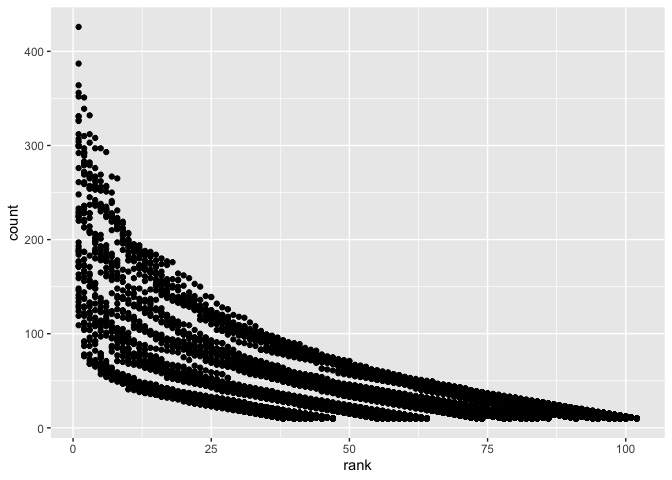
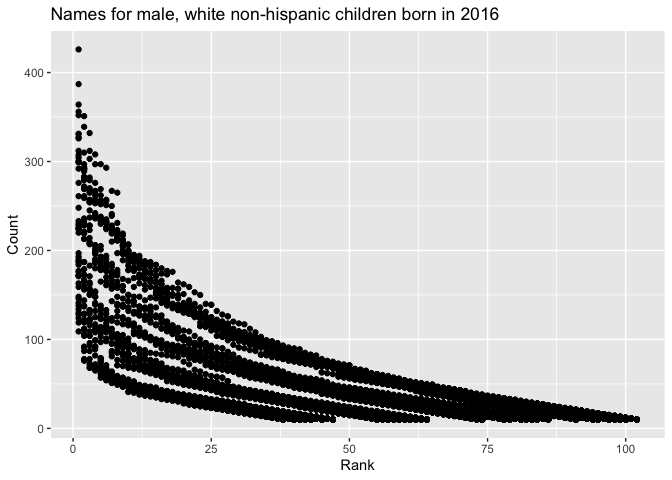
HW 2 second draft

diff --git a/p8105_hw2_qy2234.md b/p8105_hw2_qy2234.md
@@ -202,10 +202,12 @@ The names of key variables include year and month
 baby_name_data = read_csv(
   "./P3_data/Popular_Baby_Names.csv") %>%
   janitor::clean_names() %>% 
-  distinct() %>% 
   mutate(gender = str_to_lower(gender)) %>% 
   mutate(ethnicity = str_to_lower(ethnicity)) %>% 
-  mutate(childs_first_name = str_to_lower(childs_first_name))
+  mutate(childs_first_name = str_to_lower(childs_first_name)) %>% 
+  distinct() %>% 
+  mutate(ethnicity = recode(ethnicity, "asian and paci" = "asian and pacific islander")) %>%   mutate(ethnicity = recode(ethnicity, "black non hisp" = "black non hispanic")) %>%           mutate(ethnicity = recode(ethnicity, "white non hisp" = "white non hispanic")) %>% 
+  mutate(ethnicity = factor(ethnicity))
 ```
 
     ## Parsed with column specification:
@@ -218,27 +220,32 @@ baby_name_data = read_csv(
     ##   Rank = col_double()
     ## )
 
-Produce a well-structured, reader-friendly table showing the rank in
-popularity of the name “Olivia” as a female baby name over time; this
-should have rows for ethnicities and columns for year. Produce a similar
-table showing the most popular name among male children over time.
-
 ``` r
 ## produce a well-structured, reader-friendly table for girl's name
 baby_name_data_tidy_girl = 
+  baby_name_data %>% 
+  filter(childs_first_name == "olivia") %>% 
+  select(-gender, -count) %>% 
   pivot_wider(
-  baby_name_data, 
   names_from = "year_of_birth", 
-  values_from = "count")
+  values_from = "rank") 
+   
 
 ## produce a well-structured, reader-friendly table for boy's name
 baby_name_data_tidy_boy = 
+  baby_name_data %>% 
+  filter(gender == "male", rank == "1") %>% 
+  select(-gender, -count, -rank) %>% 
   pivot_wider(
-  baby_name_data, 
   names_from = "year_of_birth", 
-  values_from = "count") %>% 
-  arrange(desc(gender))
+  values_from = "childs_first_name")
 ```
+
+Produce a well-structured, reader-friendly table showing the rank in
+popularity of the name “Olivia” as a female baby name over time; this
+should have rows for ethnicities and columns for year. Produce a similar
+table showing the most popular name among male children over
+time.
 
 ``` r
 ## for male, white non-hispanic children born in 2016, produce a scatter plot
@@ -246,7 +253,11 @@ data_for_scatter_plot =
   filter(baby_name_data, year_of_birth == 2016, gender == "male", 
          ethnicity == "white non hispanic")
 ggplot(baby_name_data, aes(x = rank, y = count)) + 
-  geom_point()
+  geom_point() + 
+  labs(
+    title = "Names for male, white non-hispanic children born in 2016",
+    x = "Rank",
+    y = "Count")
 ```
 
 ![](p8105_hw2_qy2234_files/figure-gfm/Question_three_part_three-1.png)<!-- -->
